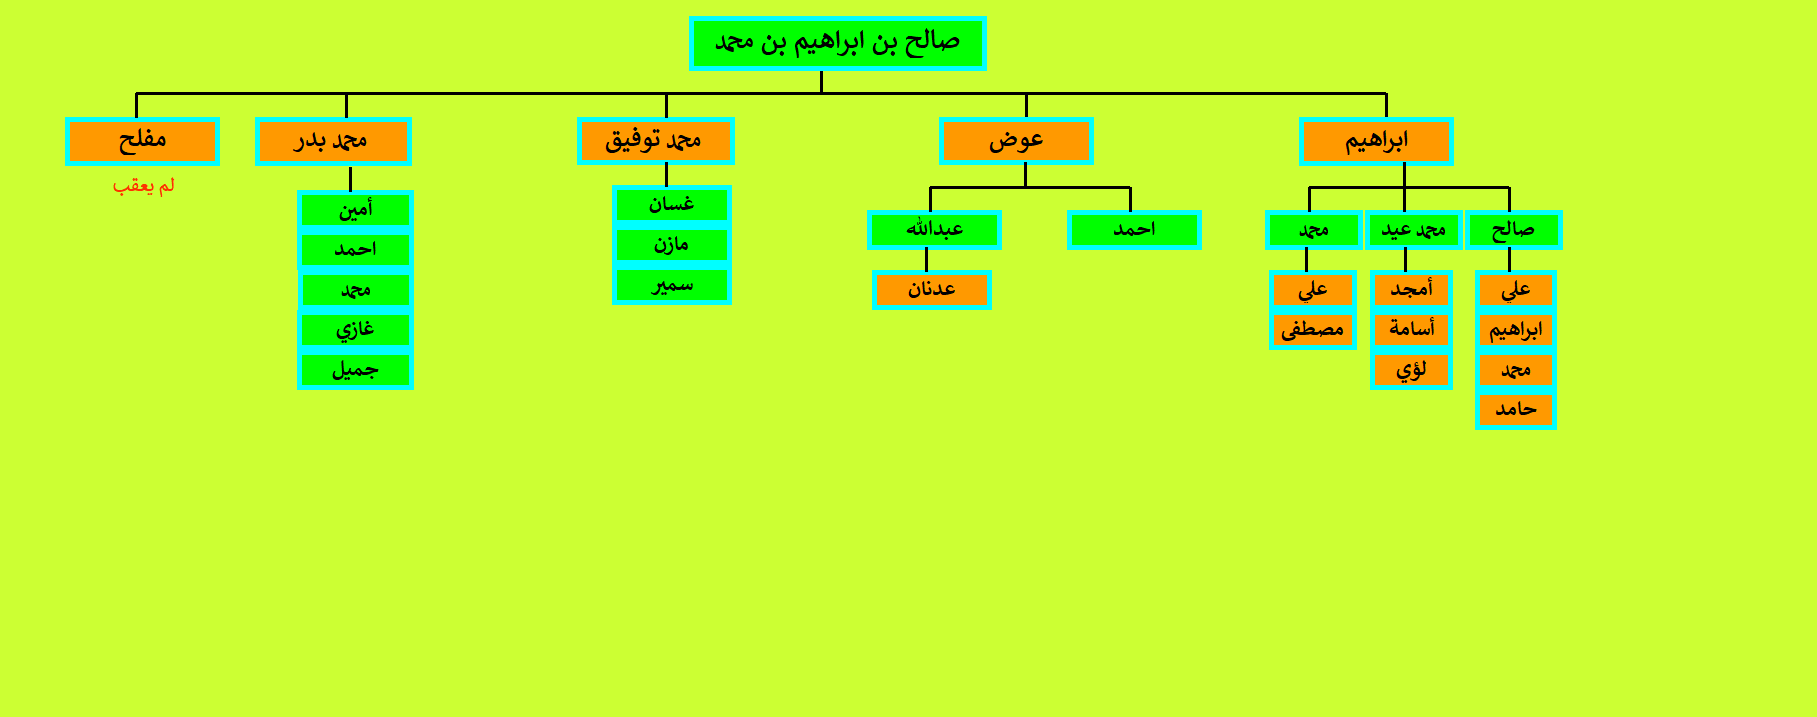
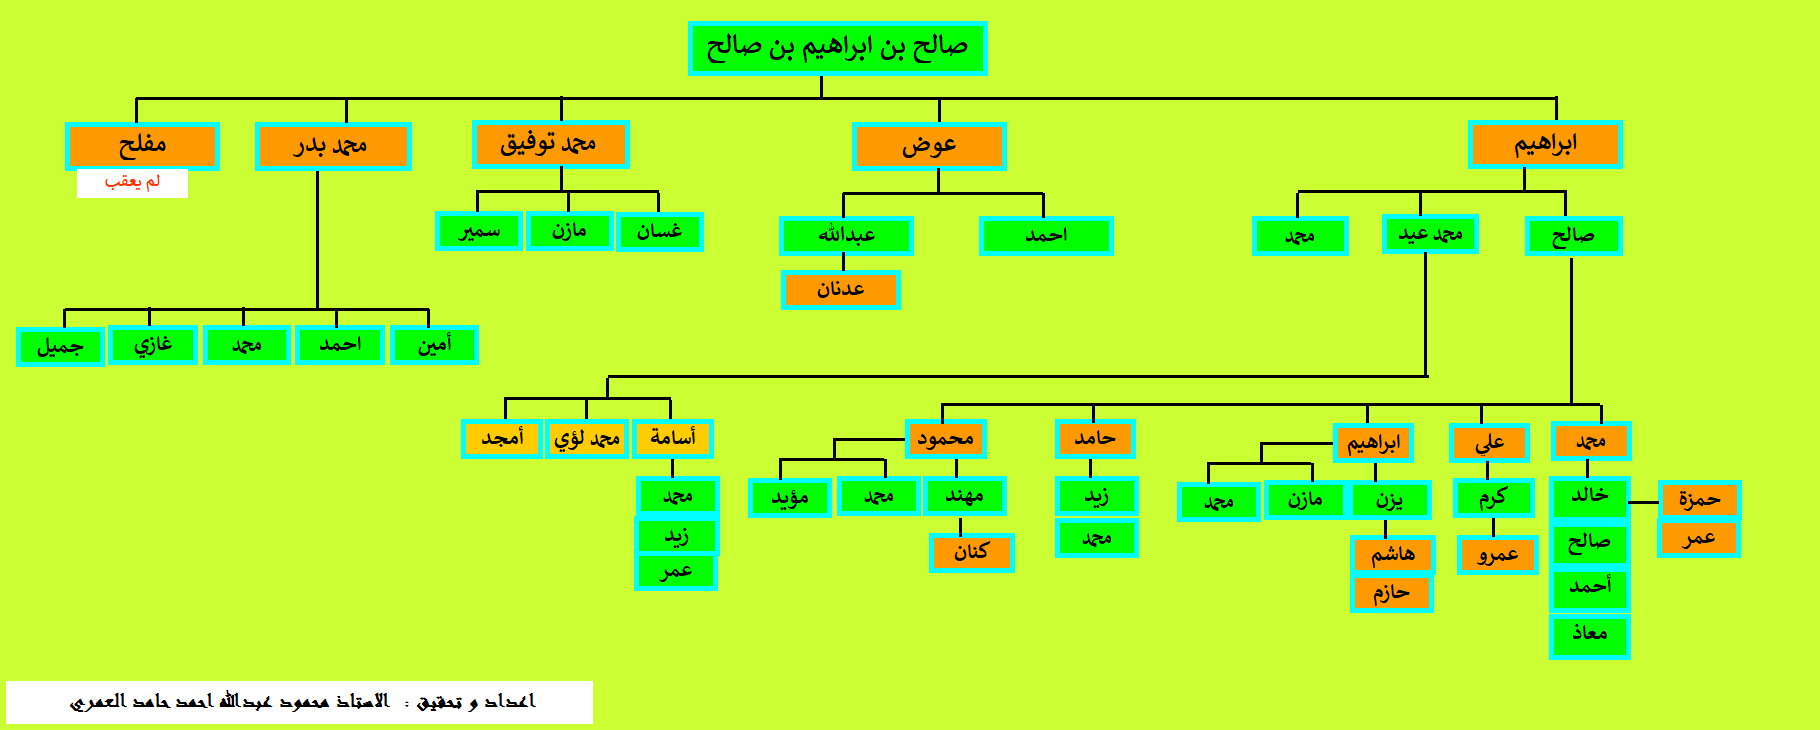
update

Changed region(s): [[0.0, 0.0, 0.9554, 0.9205], [0.0, 0.9205, 0.339, 1.0]]

diff --git a/Saleh-ben-Ibraheem.html b/Saleh-ben-Ibraheem.html
@@ -30,11 +30,14 @@ function FP_getObjectByID(id,o) {//v1.0
 </script>
 </head>
 
-<body style="background-color: #CCFF33" onload="FP_preloadImgs(/*url*/'button3197.gif',/*url*/'button3198.gif')">
+<body style="background-color: #CCFF33" onload="FP_preloadImgs(/*url*/'button3197.gif',/*url*/'button3198.gif',/*url*/'button3240.gif',/*url*/'button3241.gif')">
 
 <div id="layer1" style="position: absolute; width: 115px; height: 35px; z-index: 1; left: 10px; top: 15px">
 	<a href="index.html">
-	<img id="img1" alt="الصفحة الرئيسية" height="23" onmousedown="FP_swapImg(1,0,/*id*/'img1',/*url*/'button3198.gif')" onmouseout="FP_swapImg(0,0,/*id*/'img1',/*url*/'button3199.gif')" onmouseover="FP_swapImg(1,0,/*id*/'img1',/*url*/'button3197.gif')" onmouseup="FP_swapImg(0,0,/*id*/'img1',/*url*/'button3197.gif')" src="button3199.gif" style="border: 0" width="116" /><!-- MSComment="ibutton" fp-style="fp-btn: Metal Capsule 3; fp-font-style: Bold; fp-font-size: 8; fp-transparent: 1" fp-title="الصفحة الرئيسية" --></a></div>
+	<img id="img1" alt="الصفحة الرئيسية" height="23" onmousedown="FP_swapImg(1,0,/*id*/'img1',/*url*/'button3198.gif')" onmouseout="FP_swapImg(0,0,/*id*/'img1',/*url*/'button3199.gif')" onmouseover="FP_swapImg(1,0,/*id*/'img1',/*url*/'button3197.gif')" onmouseup="FP_swapImg(0,0,/*id*/'img1',/*url*/'button3197.gif')" src="button3199.gif" style="border: 0" width="116" /><!-- MSComment="ibutton" fp-style="fp-btn: Metal Capsule 3; fp-font-style: Bold; fp-font-size: 8; fp-transparent: 1" fp-title="الصفحة الرئيسية" --></a><div id="layer2" style="position: absolute; width: 100px; height: 20px; z-index: 1; left: 1150px; top: 235px">
+		<a href="Mohammed-ben-Ibraheem-Ben%20Saleh.html">
+		<img id="img2" alt="الأحفاد" height="20" onmousedown="FP_swapImg(1,0,/*id*/'img2',/*url*/'button3241.gif')" onmouseout="FP_swapImg(0,0,/*id*/'img2',/*url*/'button3242.gif')" onmouseover="FP_swapImg(1,0,/*id*/'img2',/*url*/'button3240.gif')" onmouseup="FP_swapImg(0,0,/*id*/'img2',/*url*/'button3240.gif')" src="button3242.gif" style="border: 0" width="100" /><!-- MSComment="ibutton" fp-style="fp-btn: Metal Capsule 6; fp-font-style: Bold; fp-font-size: 8; fp-transparent: 1" fp-title="الأحفاد" --></a></div>
+</div>
 <img alt="" height="662" src="Saleh-ben-Ibraheem.png" width="1683" />
 
 </body>

diff --git a/Mohammed-ben-Ibraheem-Ben Saleh.html b/Mohammed-ben-Ibraheem-Ben Saleh.html
@@ -1,0 +1,42 @@
+<!DOCTYPE html PUBLIC "-//W3C//DTD XHTML 1.0 Transitional//EN" "http://www.w3.org/TR/xhtml1/DTD/xhtml1-transitional.dtd">
+<html xmlns="http://www.w3.org/1999/xhtml">
+
+<head>
+<meta content="text/html; charset=utf-8" http-equiv="Content-Type" />
+<title>النسب العمري</title>
+<script type="text/javascript">
+<!--
+function FP_swapImg() {//v1.0
+ var doc=document,args=arguments,elm,n; doc.$imgSwaps=new Array(); for(n=2; n<args.length;
+ n+=2) { elm=FP_getObjectByID(args[n]); if(elm) { doc.$imgSwaps[doc.$imgSwaps.length]=elm;
+ elm.$src=elm.src; elm.src=args[n+1]; } }
+}
+
+function FP_preloadImgs() {//v1.0
+ var d=document,a=arguments; if(!d.FP_imgs) d.FP_imgs=new Array();
+ for(var i=0; i<a.length; i++) { d.FP_imgs[i]=new Image; d.FP_imgs[i].src=a[i]; }
+}
+
+function FP_getObjectByID(id,o) {//v1.0
+ var c,el,els,f,m,n; if(!o)o=document; if(o.getElementById) el=o.getElementById(id);
+ else if(o.layers) c=o.layers; else if(o.all) el=o.all[id]; if(el) return el;
+ if(o.id==id || o.name==id) return o; if(o.childNodes) c=o.childNodes; if(c)
+ for(n=0; n<c.length; n++) { el=FP_getObjectByID(id,c[n]); if(el) return el; }
+ f=o.forms; if(f) for(n=0; n<f.length; n++) { els=f[n].elements;
+ for(m=0; m<els.length; m++){ el=FP_getObjectByID(id,els[n]); if(el) return el; } }
+ return null;
+}
+// -->
+</script>
+</head>
+
+<body style="background-color: #CCFF33" onload="FP_preloadImgs(/*url*/'button3243.gif',/*url*/'button3244.gif')">
+
+<div id="layer1" style="position: absolute; width: 115px; height: 25px; z-index: 1; left: 15px; top: 25px">
+	<a href="index.html">
+	<img id="img1" alt="الصفحة الرئيسية" height="23" onmousedown="FP_swapImg(1,0,/*id*/'img1',/*url*/'button3244.gif')" onmouseout="FP_swapImg(0,0,/*id*/'img1',/*url*/'button3245.gif')" onmouseover="FP_swapImg(1,0,/*id*/'img1',/*url*/'button3243.gif')" onmouseup="FP_swapImg(0,0,/*id*/'img1',/*url*/'button3243.gif')" src="button3245.gif" style="border: 0" width="116" /><!-- MSComment="ibutton" fp-style="fp-btn: Metal Capsule 3; fp-font-style: Bold; fp-font-size: 8; fp-transparent: 1" fp-title="الصفحة الرئيسية" --></a></div>
+<img alt="" height="723" src="Mohammed-ben-Ibraheem-ben%20Saleh.png" width="1817" />
+
+</body>
+
+</html>
